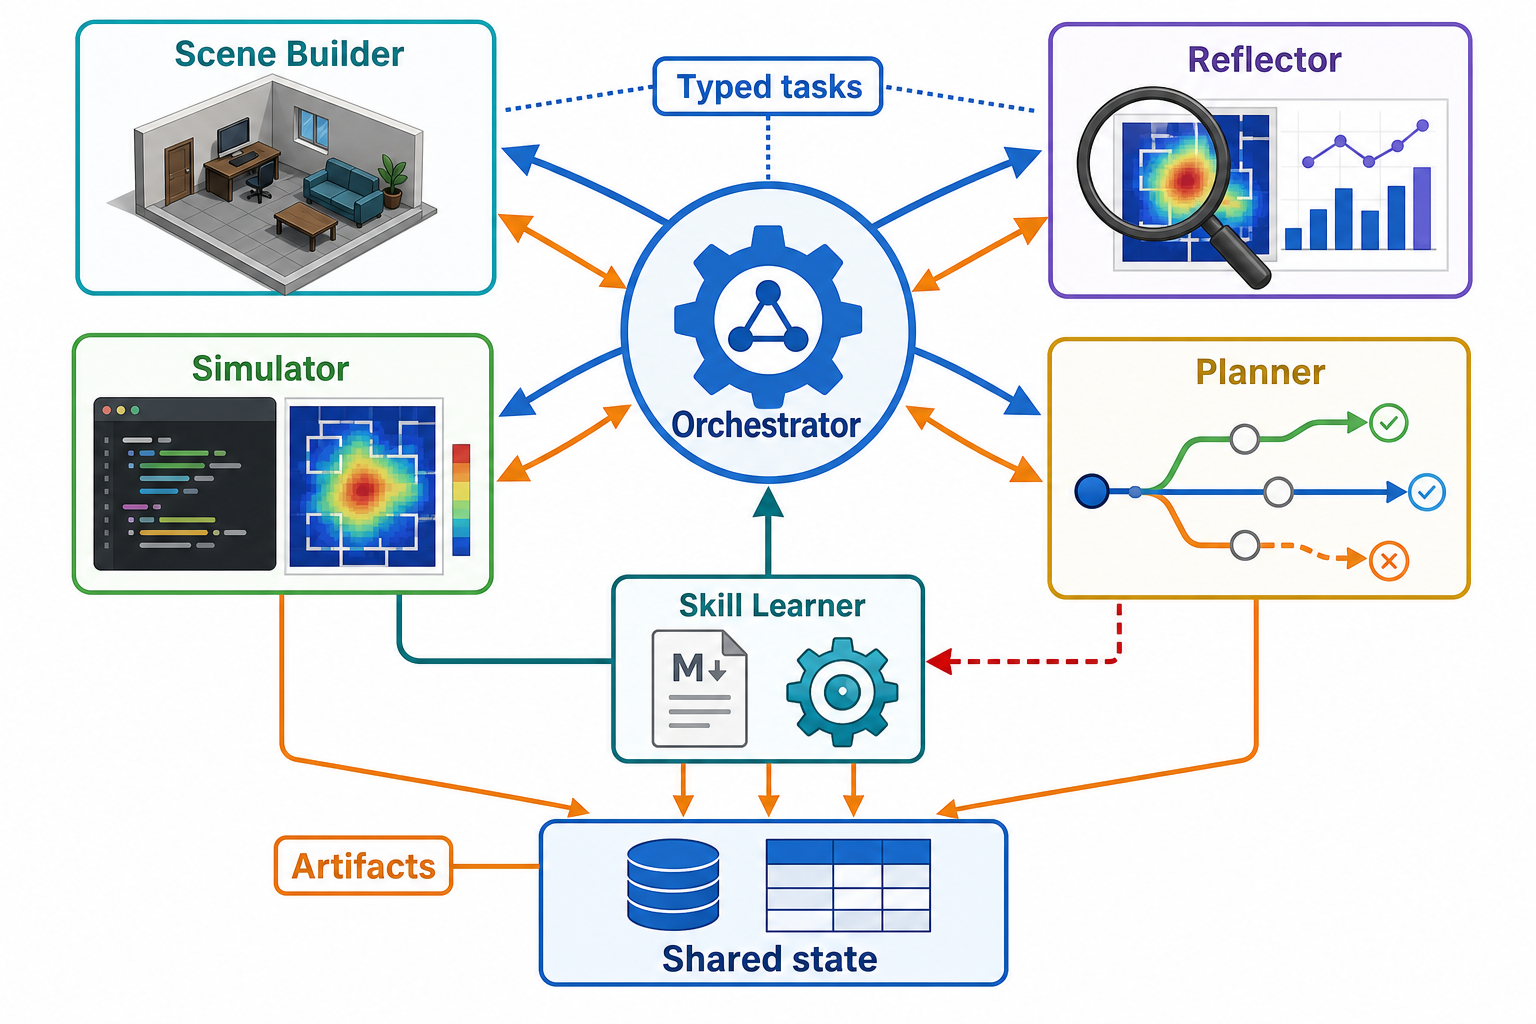
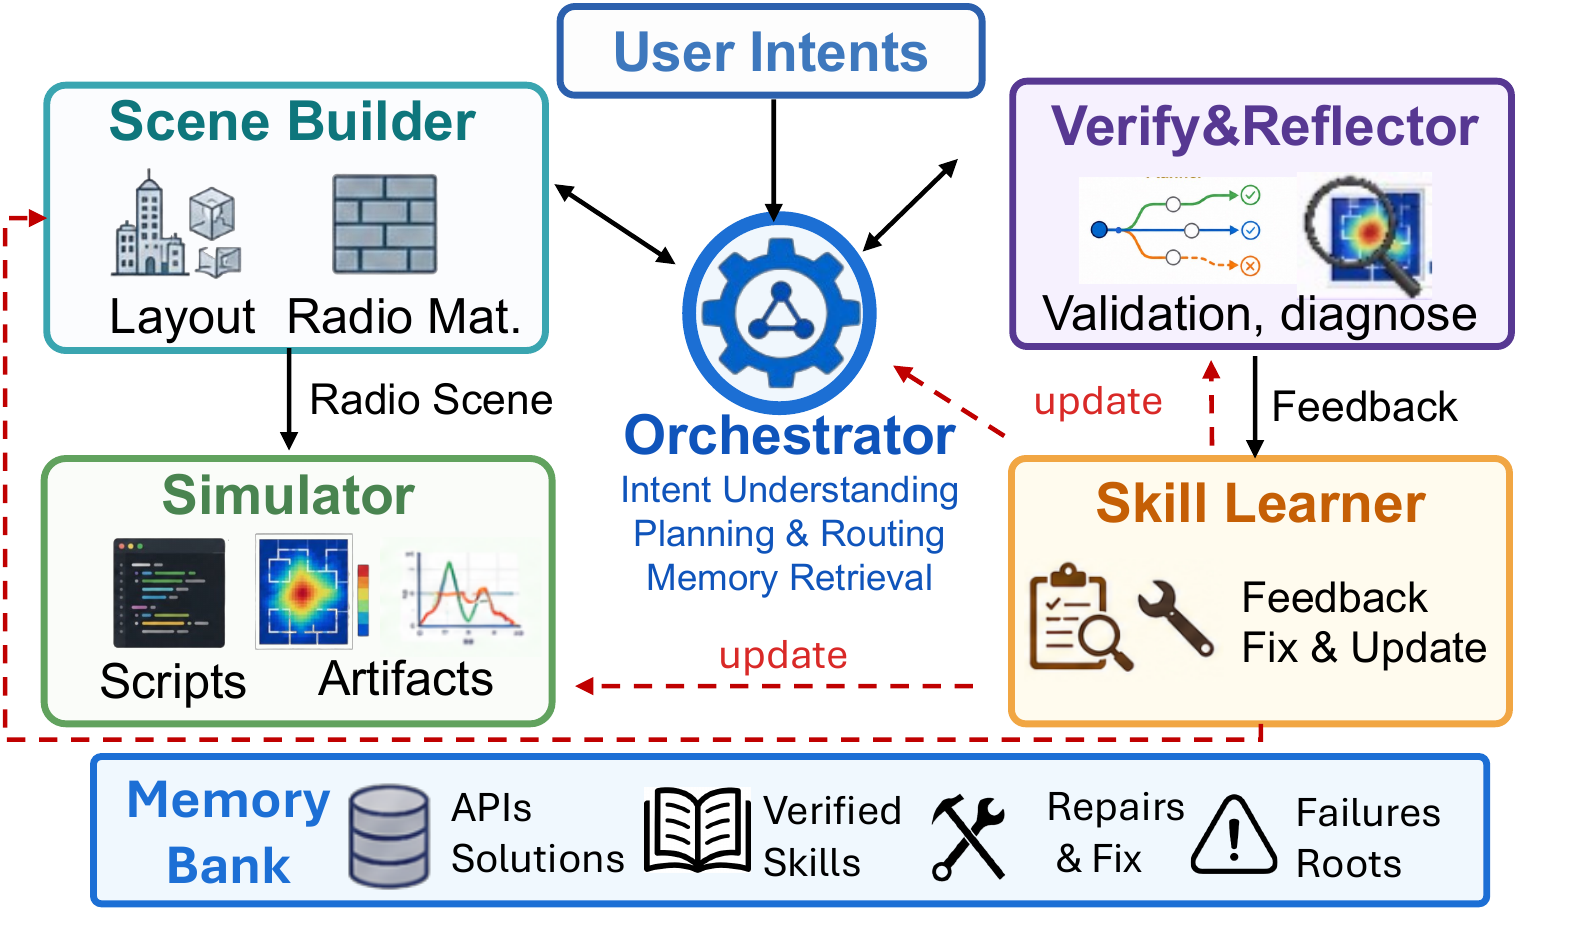
Update architecture figure

diff --git a/index.html b/index.html
@@ -276,6 +276,11 @@
       height: auto;
     }
 
+    .architecture-frame {
+      max-width: 900px;
+      margin: 0 auto;
+    }
+
     .demo-grid {
       display: grid;
       grid-template-columns: minmax(0, 1.7fr) minmax(280px, 0.8fr);
@@ -536,7 +541,7 @@
           </div>
           <p class="lead">A central orchestrator dispatches typed tasks to specialized workers. Scene building, simulation, reflection, planning, and skill learning all operate through inspectable artifacts instead of free-form chat alone.</p>
         </div>
-        <div class="media-frame">
+        <div class="media-frame architecture-frame">
           <img src="assets/architecture.png" alt="AgenticSionna architecture with scene builder, simulator, reflector, planner, skill learner, and shared state.">
         </div>
       </div>
